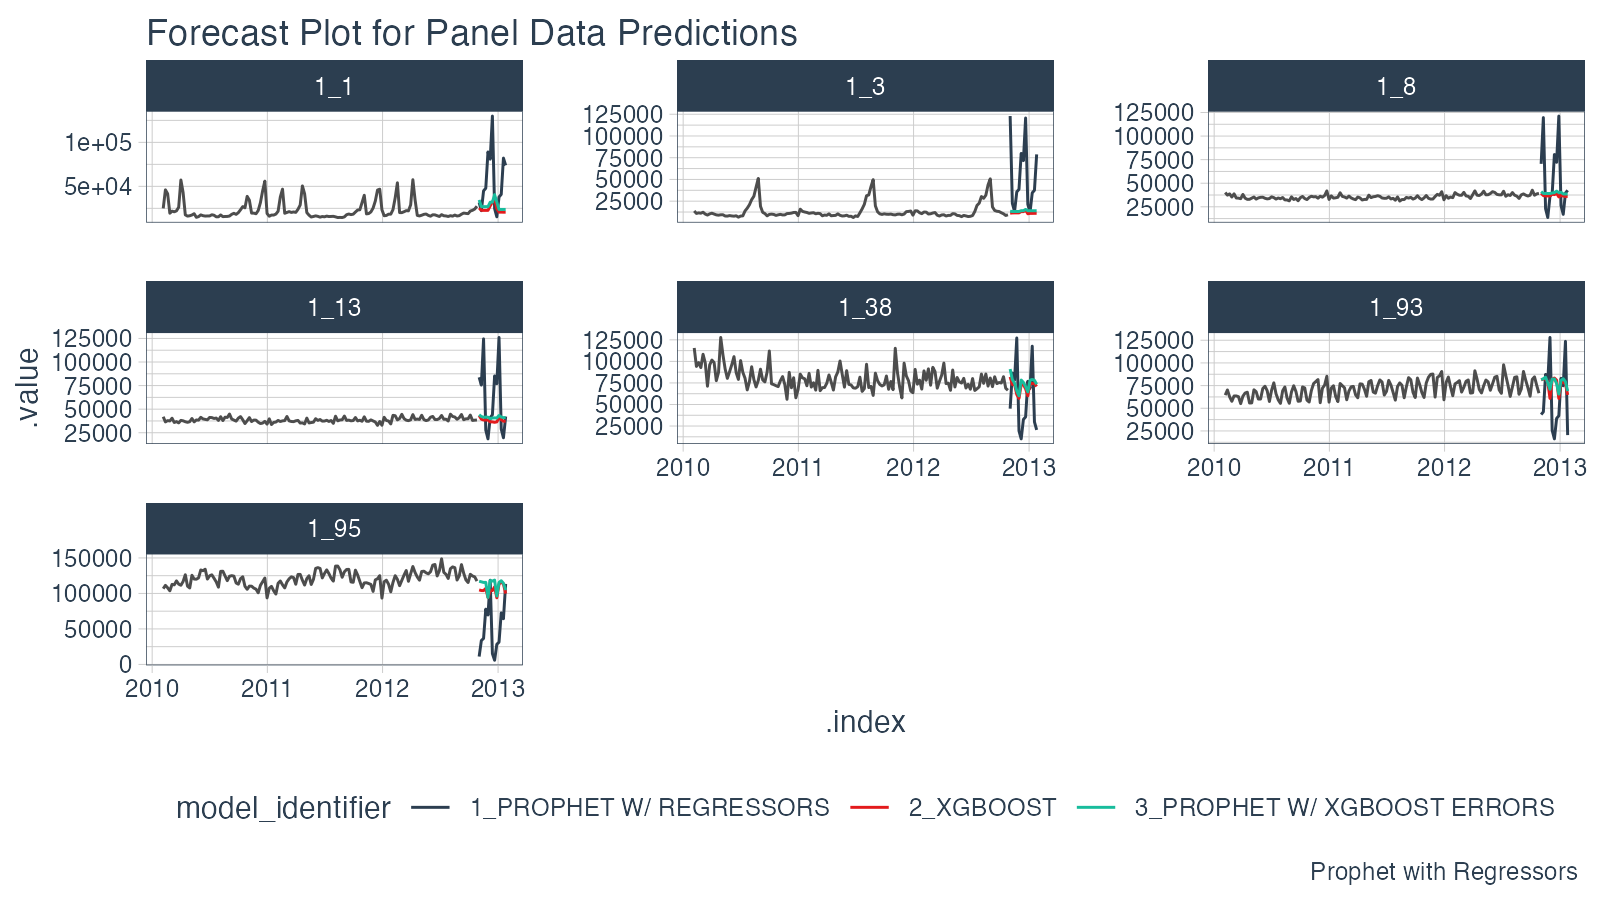
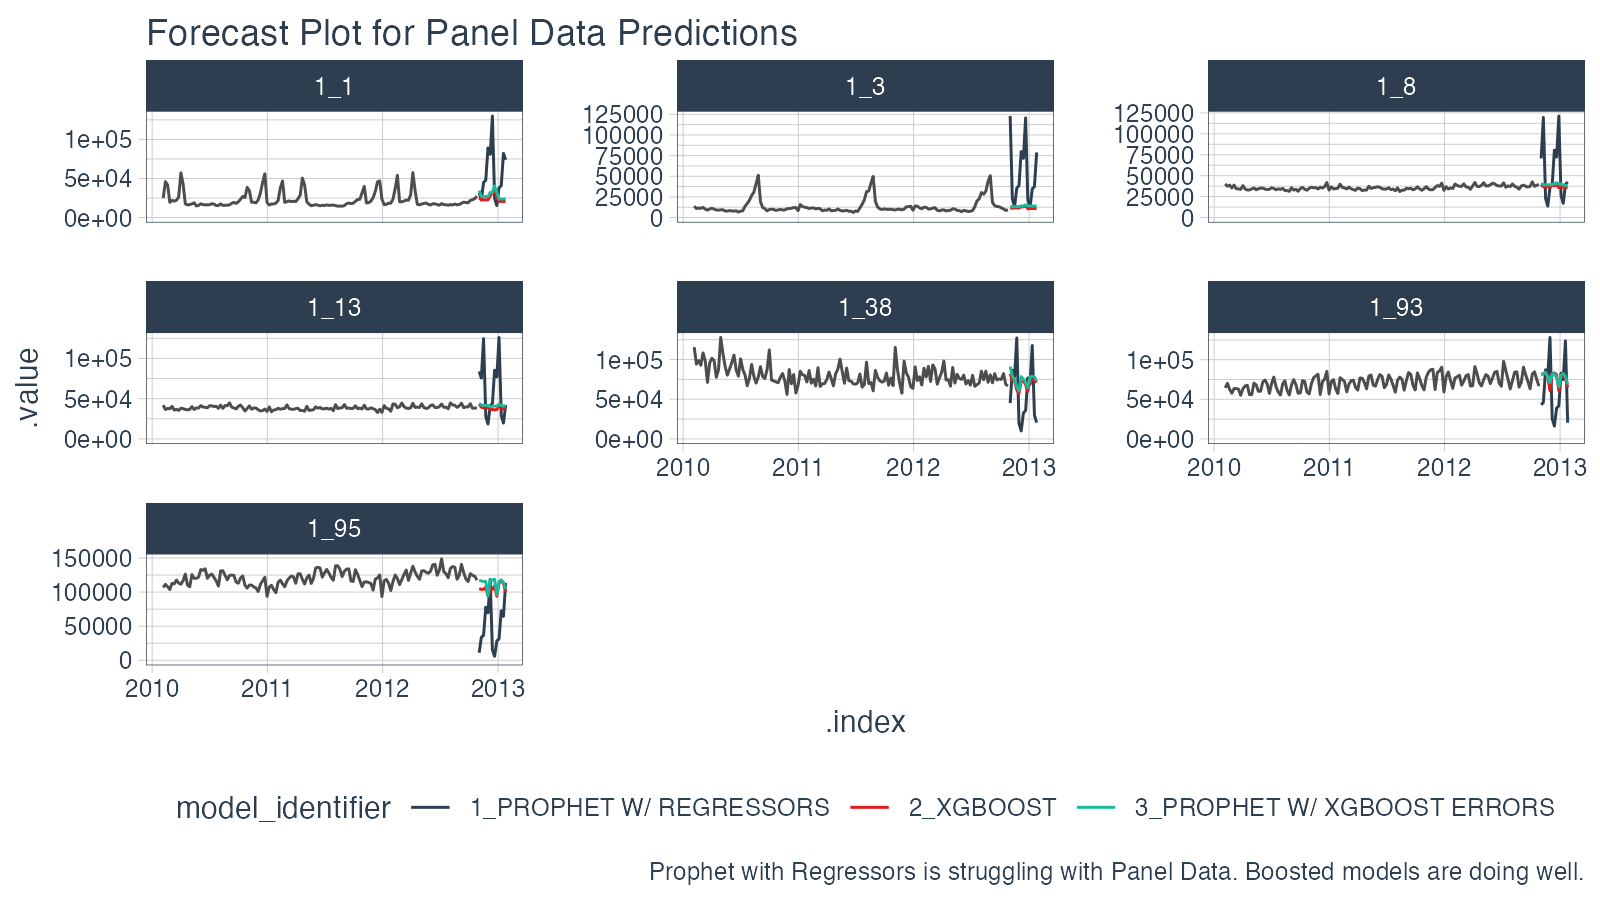
update panel data vignette

diff --git a/docs/articles/panel-data.html b/docs/articles/panel-data.html
@@ -295,10 +295,11 @@
             data <span class="op">=</span> <span class="va">data_prepared_tbl</span><span class="op">)</span> <span class="op">+</span>
   <span class="fu">geom_line</span><span class="op">(</span><span class="op">)</span> <span class="op">+</span> 
   <span class="fu">facet_wrap</span><span class="op">(</span><span class="op">~</span> <span class="va">id</span>, scales <span class="op">=</span> <span class="st">"free_y"</span><span class="op">)</span> <span class="op">+</span>
+  <span class="fu">expand_limits</span><span class="op">(</span>y <span class="op">=</span> <span class="fl">0</span><span class="op">)</span> <span class="op">+</span>
   <span class="fu"><a href="https://rdrr.io/pkg/tidyquant/man/theme_tq.html">theme_tq</a></span><span class="op">(</span><span class="op">)</span> <span class="op">+</span>
   <span class="fu"><a href="https://rdrr.io/pkg/tidyquant/man/scale_manual.html">scale_color_tq</a></span><span class="op">(</span><span class="op">)</span> <span class="op">+</span>
   <span class="fu">labs</span><span class="op">(</span>title <span class="op">=</span> <span class="st">"Forecast Plot for Panel Data Predictions"</span>,
-       caption <span class="op">=</span> <span class="st">"Prophet with Regressors "</span><span class="op">)</span></pre></div>
+       caption <span class="op">=</span> <span class="st">"Prophet with Regressors is struggling with Panel Data. Boosted models are doing well."</span><span class="op">)</span></pre></div>
 <div class="figure" style="text-align: center">
 <img src="panel-data_files/figure-html/unnamed-chunk-10-1.png" alt="Forecast Plot for Panel Data Predictions" width="95%"><p class="caption">
 Forecast Plot for Panel Data Predictions
@@ -388,7 +389,7 @@ Forecast Plot for Panel Data Predictions
   font-family: -apple-system, BlinkMacSystemFont, 'Segoe UI', Roboto, Oxygen, Ubuntu, Cantarell, 'Helvetica Neue', 'Fira Sans', 'Droid Sans', Arial, sans-serif;
 }
 
-#sklogtfrss .gt_table {
+#aogegsqyal .gt_table {
   display: table;
   border-collapse: collapse;
   margin-left: auto;
@@ -413,7 +414,7 @@ Forecast Plot for Panel Data Predictions
   border-left-color: #D3D3D3;
 }
 
-#sklogtfrss .gt_heading {
+#aogegsqyal .gt_heading {
   background-color: #FFFFFF;
   text-align: center;
   border-bottom-color: #FFFFFF;
@@ -425,7 +426,7 @@ Forecast Plot for Panel Data Predictions
   border-right-color: #D3D3D3;
 }
 
-#sklogtfrss .gt_title {
+#aogegsqyal .gt_title {
   color: #333333;
   font-size: 125%;
   font-weight: initial;
@@ -435,7 +436,7 @@ Forecast Plot for Panel Data Predictions
   border-bottom-width: 0;
 }
 
-#sklogtfrss .gt_subtitle {
+#aogegsqyal .gt_subtitle {
   color: #333333;
   font-size: 85%;
   font-weight: initial;
@@ -445,13 +446,13 @@ Forecast Plot for Panel Data Predictions
   border-top-width: 0;
 }
 
-#sklogtfrss .gt_bottom_border {
+#aogegsqyal .gt_bottom_border {
   border-bottom-style: solid;
   border-bottom-width: 2px;
   border-bottom-color: #D3D3D3;
 }
 
-#sklogtfrss .gt_col_headings {
+#aogegsqyal .gt_col_headings {
   border-top-style: solid;
   border-top-width: 2px;
   border-top-color: #D3D3D3;
@@ -466,7 +467,7 @@ Forecast Plot for Panel Data Predictions
   border-right-color: #D3D3D3;
 }
 
-#sklogtfrss .gt_col_heading {
+#aogegsqyal .gt_col_heading {
   color: #333333;
   background-color: #FFFFFF;
   font-size: 100%;
@@ -486,7 +487,7 @@ Forecast Plot for Panel Data Predictions
   overflow-x: hidden;
 }
 
-#sklogtfrss .gt_column_spanner_outer {
+#aogegsqyal .gt_column_spanner_outer {
   color: #333333;
   background-color: #FFFFFF;
   font-size: 100%;
@@ -498,15 +499,15 @@ Forecast Plot for Panel Data Predictions
   padding-right: 4px;
 }
 
-#sklogtfrss .gt_column_spanner_outer:first-child {
+#aogegsqyal .gt_column_spanner_outer:first-child {
   padding-left: 0;
 }
 
-#sklogtfrss .gt_column_spanner_outer:last-child {
+#aogegsqyal .gt_column_spanner_outer:last-child {
   padding-right: 0;
 }
 
-#sklogtfrss .gt_column_spanner {
+#aogegsqyal .gt_column_spanner {
   border-bottom-style: solid;
   border-bottom-width: 2px;
   border-bottom-color: #D3D3D3;
@@ -518,7 +519,7 @@ Forecast Plot for Panel Data Predictions
   width: 100%;
 }
 
-#sklogtfrss .gt_group_heading {
+#aogegsqyal .gt_group_heading {
   padding: 8px;
   color: #333333;
   background-color: #FFFFFF;
@@ -540,7 +541,7 @@ Forecast Plot for Panel Data Predictions
   vertical-align: middle;
 }
 
-#sklogtfrss .gt_empty_group_heading {
+#aogegsqyal .gt_empty_group_heading {
   padding: 0.5px;
   color: #333333;
   background-color: #FFFFFF;
@@ -555,15 +556,15 @@ Forecast Plot for Panel Data Predictions
   vertical-align: middle;
 }
 
-#sklogtfrss .gt_from_md > :first-child {
+#aogegsqyal .gt_from_md > :first-child {
   margin-top: 0;
 }
 
-#sklogtfrss .gt_from_md > :last-child {
+#aogegsqyal .gt_from_md > :last-child {
   margin-bottom: 0;
 }
 
-#sklogtfrss .gt_row {
+#aogegsqyal .gt_row {
   padding-top: 8px;
   padding-bottom: 8px;
   padding-left: 5px;
@@ -582,7 +583,7 @@ Forecast Plot for Panel Data Predictions
   overflow-x: hidden;
 }
 
-#sklogtfrss .gt_stub {
+#aogegsqyal .gt_stub {
   color: #333333;
   background-color: #FFFFFF;
   font-size: 100%;
@@ -594,7 +595,7 @@ Forecast Plot for Panel Data Predictions
   padding-left: 12px;
 }
 
-#sklogtfrss .gt_summary_row {
+#aogegsqyal .gt_summary_row {
   color: #333333;
   background-color: #FFFFFF;
   text-transform: inherit;
@@ -604,7 +605,7 @@ Forecast Plot for Panel Data Predictions
   padding-right: 5px;
 }
 
-#sklogtfrss .gt_first_summary_row {
+#aogegsqyal .gt_first_summary_row {
   padding-top: 8px;
   padding-bottom: 8px;
   padding-left: 5px;
@@ -614,7 +615,7 @@ Forecast Plot for Panel Data Predictions
   border-top-color: #D3D3D3;
 }
 
-#sklogtfrss .gt_grand_summary_row {
+#aogegsqyal .gt_grand_summary_row {
   color: #333333;
   background-color: #FFFFFF;
   text-transform: inherit;
@@ -624,7 +625,7 @@ Forecast Plot for Panel Data Predictions
   padding-right: 5px;
 }
 
-#sklogtfrss .gt_first_grand_summary_row {
+#aogegsqyal .gt_first_grand_summary_row {
   padding-top: 8px;
   padding-bottom: 8px;
   padding-left: 5px;
@@ -634,11 +635,11 @@ Forecast Plot for Panel Data Predictions
   border-top-color: #D3D3D3;
 }
 
-#sklogtfrss .gt_striped {
+#aogegsqyal .gt_striped {
   background-color: rgba(128, 128, 128, 0.05);
 }
 
-#sklogtfrss .gt_table_body {
+#aogegsqyal .gt_table_body {
   border-top-style: solid;
   border-top-width: 2px;
   border-top-color: #D3D3D3;
@@ -647,7 +648,7 @@ Forecast Plot for Panel Data Predictions
   border-bottom-color: #D3D3D3;
 }
 
-#sklogtfrss .gt_footnotes {
+#aogegsqyal .gt_footnotes {
   color: #333333;
   background-color: #FFFFFF;
   border-bottom-style: none;
@@ -661,13 +662,13 @@ Forecast Plot for Panel Data Predictions
   border-right-color: #D3D3D3;
 }
 
-#sklogtfrss .gt_footnote {
+#aogegsqyal .gt_footnote {
   margin: 0px;
   font-size: 90%;
   padding: 4px;
 }
 
-#sklogtfrss .gt_sourcenotes {
+#aogegsqyal .gt_sourcenotes {
   color: #333333;
   background-color: #FFFFFF;
   border-bottom-style: none;
@@ -681,46 +682,46 @@ Forecast Plot for Panel Data Predictions
   border-right-color: #D3D3D3;
 }
 
-#sklogtfrss .gt_sourcenote {
+#aogegsqyal .gt_sourcenote {
   font-size: 90%;
   padding: 4px;
 }
 
-#sklogtfrss .gt_left {
+#aogegsqyal .gt_left {
   text-align: left;
 }
 
-#sklogtfrss .gt_center {
+#aogegsqyal .gt_center {
   text-align: center;
 }
 
-#sklogtfrss .gt_right {
+#aogegsqyal .gt_right {
   text-align: right;
   font-variant-numeric: tabular-nums;
 }
 
-#sklogtfrss .gt_font_normal {
+#aogegsqyal .gt_font_normal {
   font-weight: normal;
 }
 
-#sklogtfrss .gt_font_bold {
+#aogegsqyal .gt_font_bold {
   font-weight: bold;
 }
 
-#sklogtfrss .gt_font_italic {
+#aogegsqyal .gt_font_italic {
   font-style: italic;
 }
 
-#sklogtfrss .gt_super {
+#aogegsqyal .gt_super {
   font-size: 65%;
 }
 
-#sklogtfrss .gt_footnote_marks {
+#aogegsqyal .gt_footnote_marks {
   font-style: italic;
   font-size: 65%;
 }
 </style>
-<div id="sklogtfrss" style="overflow-x:auto;overflow-y:auto;width:auto;height:auto;"><table class="table gt_table">
+<div id="aogegsqyal" style="overflow-x:auto;overflow-y:auto;width:auto;height:auto;"><table class="table gt_table">
 <thead class="gt_header">
 <tr>
 <th colspan="10" class="gt_heading gt_title gt_font_normal" style>Accuracy Table</th>
